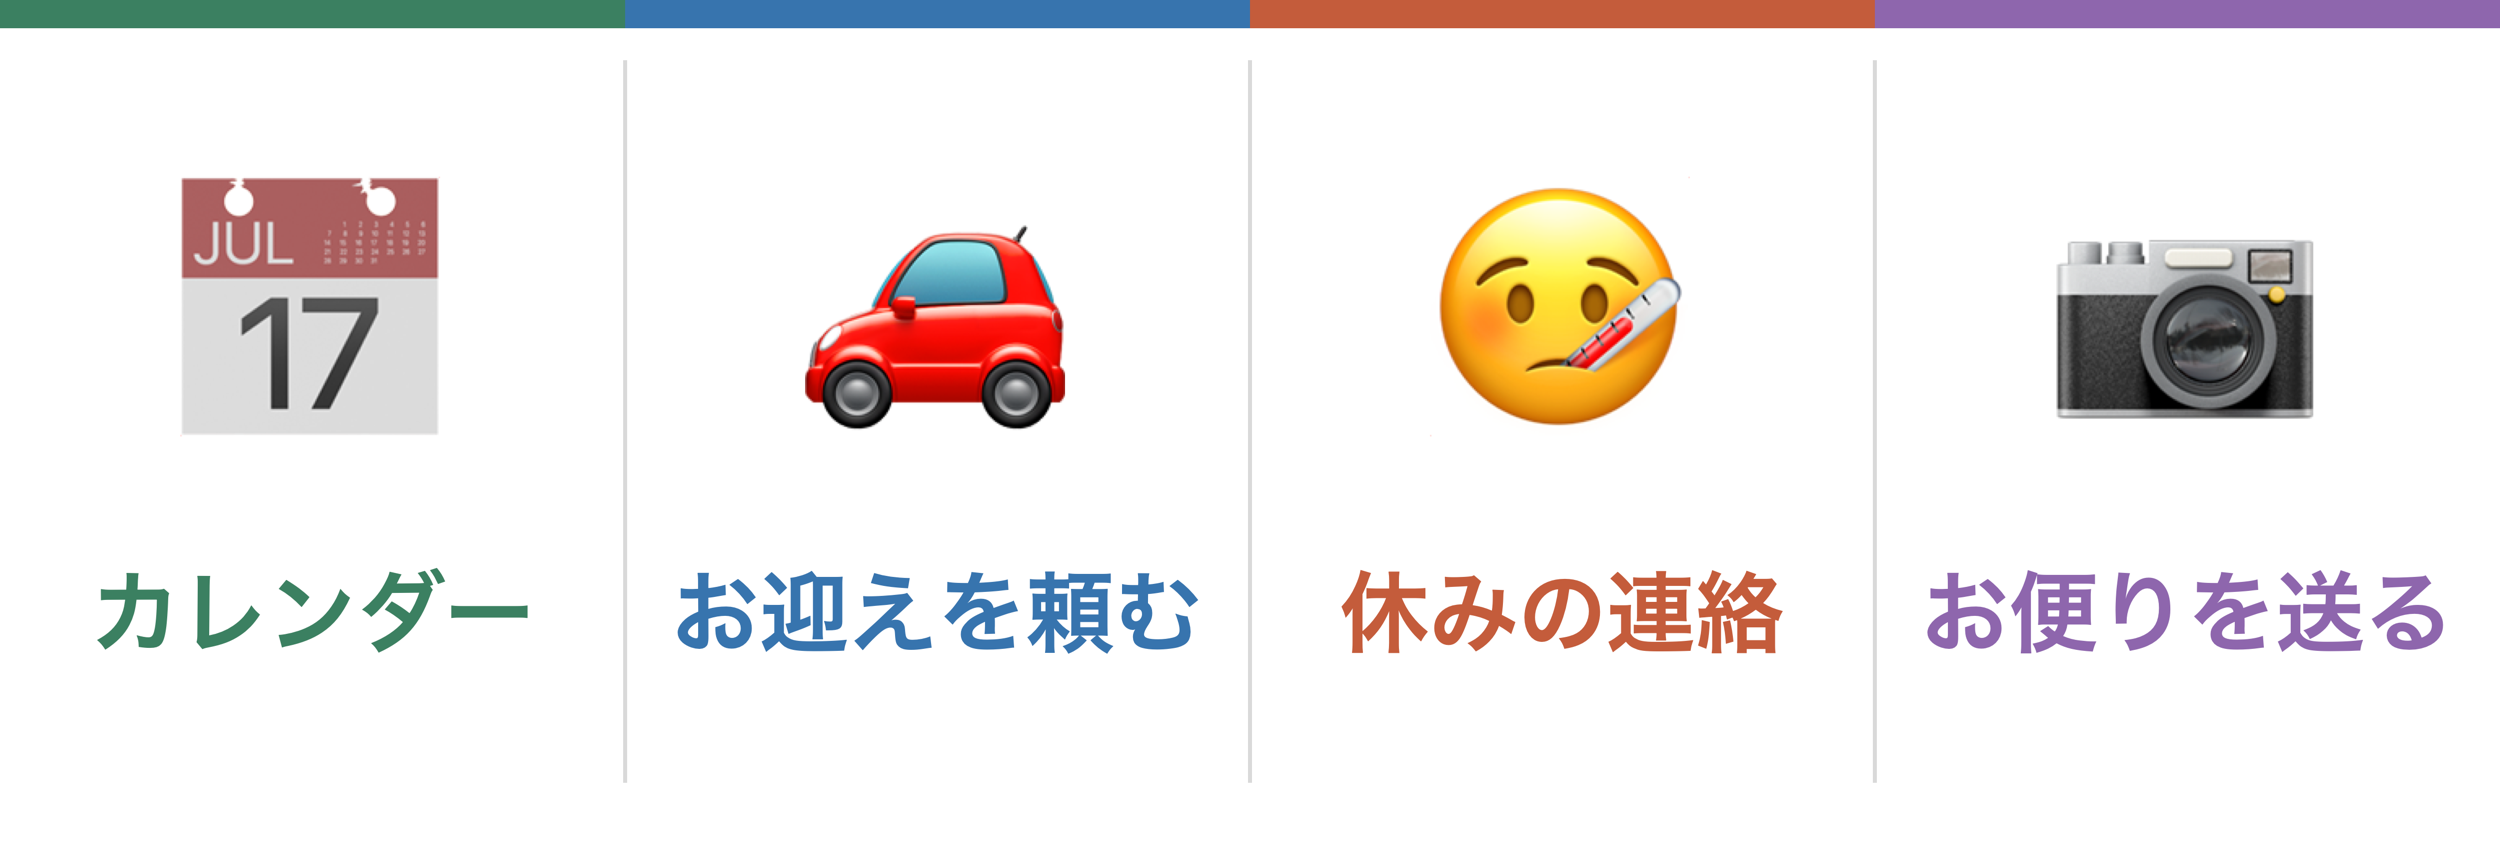
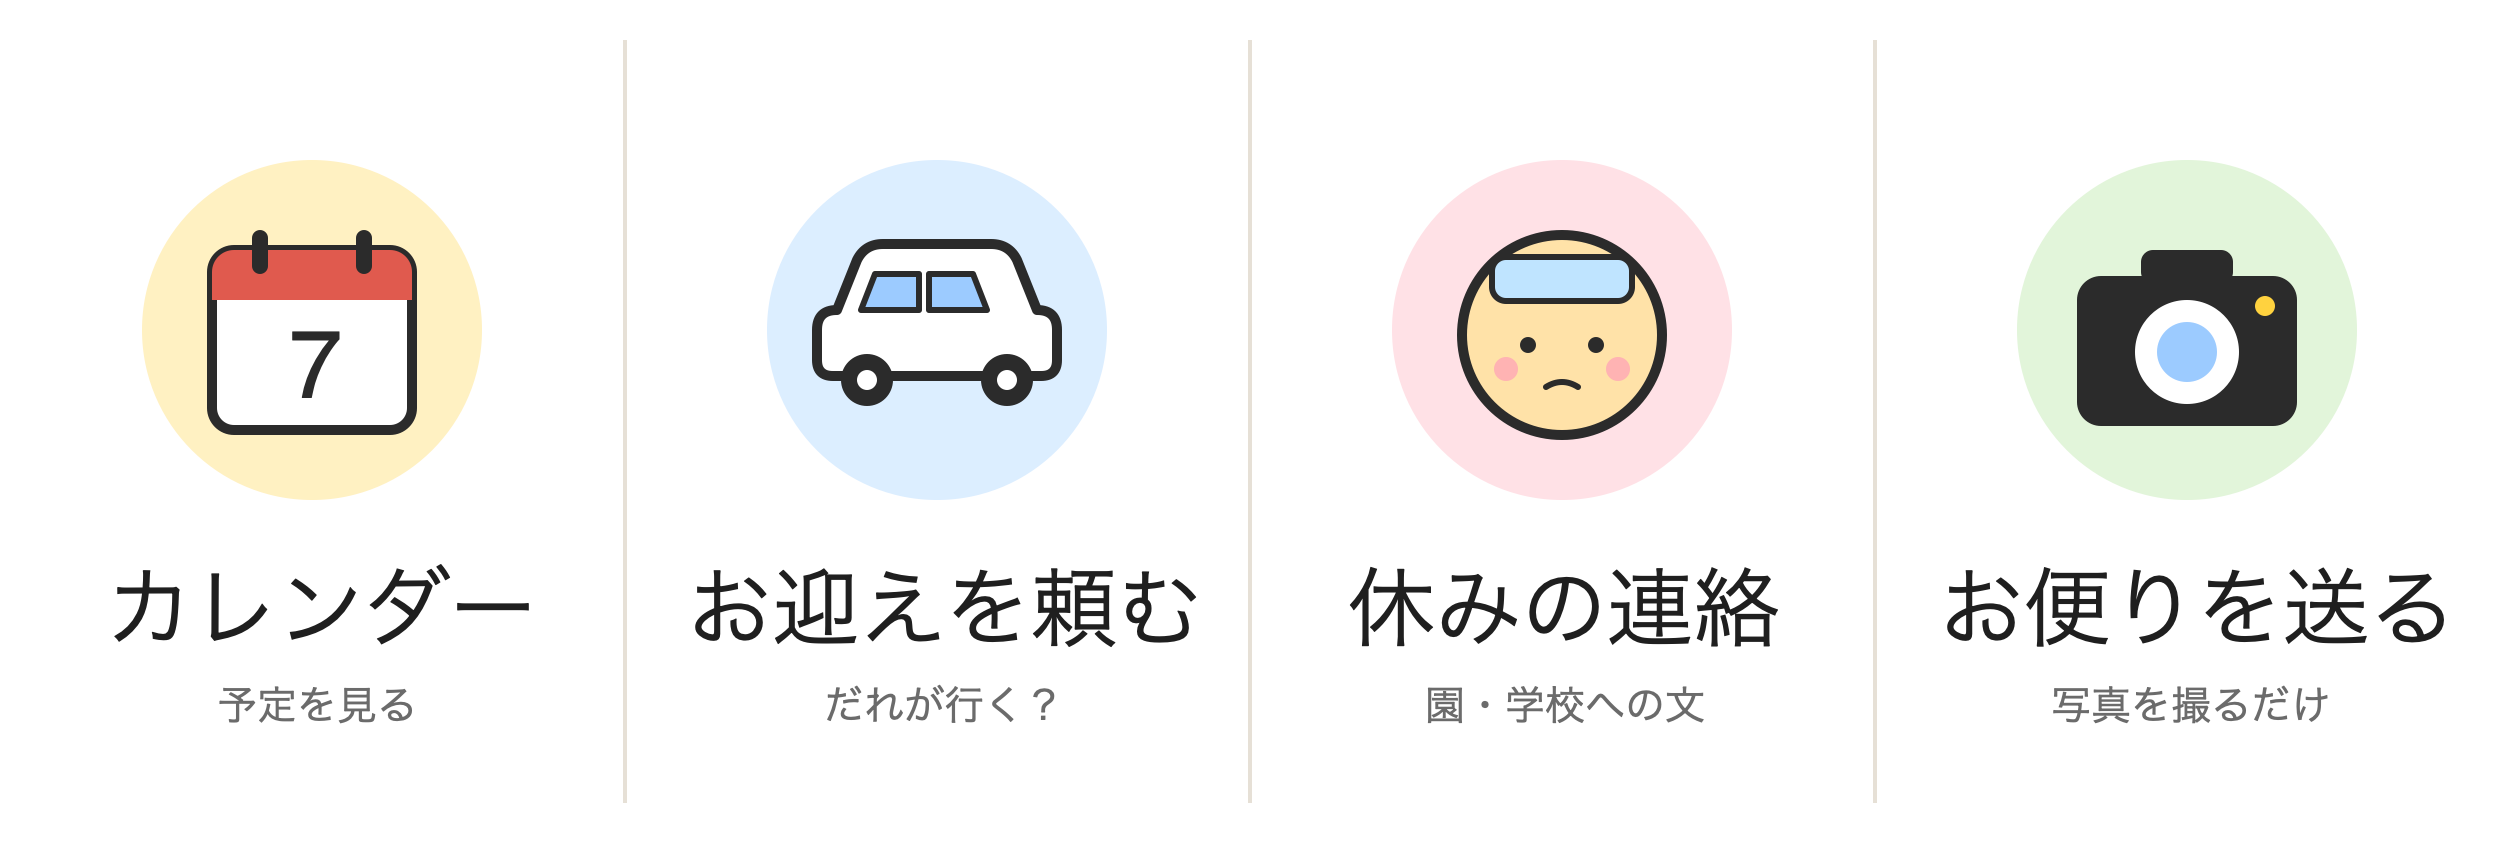
ホーム画面の絵を自作の絵（白地・4つの丸・大きな字）に差し替え。SVG と変換スクリプトも置く

diff --git a/scripts/svg2png.swift b/scripts/svg2png.swift
@@ -1,0 +1,12 @@
+// ホーム画面（リッチメニュー）の絵を SVG から 2500×843 の PNG にする。Mac だけ。使い方: swift scripts/svg2png.swift docs/assets/richmenu.svg docs/assets/richmenu.png
+import AppKit
+let args = CommandLine.arguments
+guard args.count == 3, let img = NSImage(contentsOfFile: args[1]) else { print("load failed"); exit(1) }
+let w = 2500, h = 843
+let rep = NSBitmapImageRep(bitmapDataPlanes: nil, pixelsWide: w, pixelsHigh: h, bitsPerSample: 8, samplesPerPixel: 4, hasAlpha: true, isPlanar: false, colorSpaceName: .deviceRGB, bytesPerRow: 0, bitsPerPixel: 0)!
+NSGraphicsContext.saveGraphicsState()
+NSGraphicsContext.current = NSGraphicsContext(bitmapImageRep: rep)
+img.draw(in: NSRect(x: 0, y: 0, width: w, height: h), from: .zero, operation: .copy, fraction: 1)
+NSGraphicsContext.restoreGraphicsState()
+try! rep.representation(using: .png, properties: [:])!.write(to: URL(fileURLWithPath: args[2]))
+print("ok")

diff --git a/docs/progress.md b/docs/progress.md
@@ -6,6 +6,6 @@
 - 明日：見本のお便り1枚が予定カードで返るところまで
 
 ## 11/3（火・祝）
-- できた：Worker を https://kazoku-dandori.dandori.workers.dev に公開し LINE とつないだ（**12:19 試しのグループで最初の返事**、13:06 本物のチラシの写真が正しい予定カードに）。芯B（お迎えを頼む・名前ボタン・園への文・断り・急なお迎え・19:00/07:00/30分前の定時）、芯C（1行→3通の欠席文）、冒険カード（経験値・家族レベル・日曜のMVP）、週・月カレンダー（ログインなし・文字サイズ・Google カレンダー）、お便り写真の置き場（R2）、メニューと最初の投げかけ。架空のお便り15枚で評価：全部○ 6→15、でっち上げ 7→0。見直し係（4人×2人の反論）で8個のバグを直した。コミット 10 本。夜：休みの連絡に「電話で伝える」（台本＋tel:）。AI が電話をかける案は大会後に回す（約束5・撮影との両立・番号の審査待ち）
+- できた：Worker を https://kazoku-dandori.dandori.workers.dev に公開し LINE とつないだ（**12:19 試しのグループで最初の返事**、13:06 本物のチラシの写真が正しい予定カードに）。芯B（お迎えを頼む・名前ボタン・園への文・断り・急なお迎え・19:00/07:00/30分前の定時）、芯C（1行→3通の欠席文）、冒険カード（経験値・家族レベル・日曜のMVP）、週・月カレンダー（ログインなし・文字サイズ・Google カレンダー）、お便り写真の置き場（R2）、メニューと最初の投げかけ。架空のお便り15枚で評価：全部○ 6→15、でっち上げ 7→0。見直し係（4人×2人の反論）で8個のバグを直した。コミット 10 本。夜：休みの連絡に「電話で伝える」（台本＋tel:）。AI が電話をかける案は大会後に回す（約束5・撮影との両立・番号の審査待ち）。ホーム画面の絵を自作の絵（白地・4つの丸）に差し替え
 - 残り：家族の LINE での確認（1対1のホーム画面・@名指し・メニュー→お迎え→名前ボタン／休みの連絡／カレンダーを iPhone で）、動画の撮影（11/6〜7）
 - 明日：11/4〜11/5 は作業なし。11/6 に家族のグループへ入れて本当に使う

diff --git a/docs/journey.md b/docs/journey.md
@@ -9,3 +9,4 @@
 | 11/3 14:xx | パパ | 「急に電話で呼ばれて、誰が行くってなる。対応できる？」 | 「急に呼ばれた」「今から迎え」をその場の名前ボタンにした。引き受けた人の経験値は2倍 | 偽のイベントで確認。家族での確認は 11/6〜 |
 | 11/3 15:xx | パパ | 「来た案内やチラシは、写真を撮ったら捨てたい。スクショもある」 | 読んだら消す設計をやめ、お便りの写真だけ家族の置き場（R2）に残す。「学芸会のお便り見せて」で出る。家族の写真は「この写真 残して」と言われたものだけ | 動く（偽のイベントで確認） |
 | 11/3 16:xx | パパ | 「URL が長い」「カレンダーがスマホで見切れる」「グループに人が入ったら最初の投げかけが要る」「誰が何をすればいいか分かりにくい」「縦長の画像は前のやり取りが隠れる。小さいボタンがいい」 | URL を10文字の合言葉に。カレンダーをスマホ優先に作り直し（横スクロールなし・文字 あ小中大・コントラスト4.5以上・ボタン44px）。入った人への投げかけ＋`メニュー`。お迎えの名前ボタンを小さな横並びに | 動く（本物の iPhone では未確認） |
+| 11/3 夜 | パパ | 「リッチメニュー出た。分かりやすい。絵を可愛くできる？家族の写真は？」 | 絵を2案作って見比べ、白地・大きな字の B に差し替え。家族の写真は公開リポジトリに入るので入れない | 本物の LINE で「作り直し」後に確認 |
